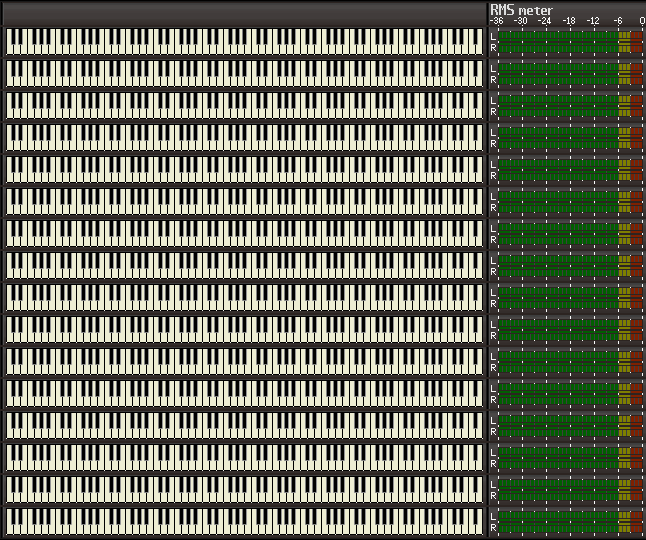
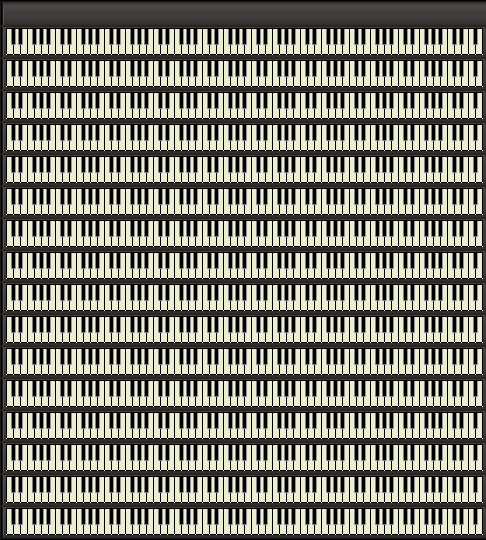
更新

diff --git a/EasySequencer/Monitor.cs b/EasySequencer/Monitor.cs
@@ -10,7 +10,8 @@ using SynthDll;
 
 namespace EasySequencer {
 	public partial class Monitor : Form {
-		Graphics mGraphMonitor;
+		Graphics mGraphKeyboard;
+		Graphics mGraphMeter;
 		Graphics mGraphUI;
 
 		Point mMouseDownPos;
@@ -113,28 +114,35 @@ namespace EasySequencer {
 		static readonly int OCT_WIDTH = (RECT_KEYS[0].Width + 1) * 7;
 
 		static readonly Size SIZE_RMS_CELL = new Size(4, 6);
-		static readonly Rectangle RECT_RMS_L = new Rectangle(499, 32, 144, 6);
-		static readonly Rectangle RECT_RMS_R = new Rectangle(499, 46, 144, 6);
-		static readonly Rectangle RECT_PEAK_L = new Rectangle(499, 39, 144, 2);
-		static readonly Rectangle RECT_PEAK_R = new Rectangle(499, 43, 144, 2);
+		static readonly Rectangle RECT_RMS_L = new Rectangle(13, 32, 144, 6);
+		static readonly Rectangle RECT_RMS_R = new Rectangle(13, 46, 144, 6);
+		static readonly Rectangle RECT_PEAK_L = new Rectangle(13, 39, 144, 2);
+		static readonly Rectangle RECT_PEAK_R = new Rectangle(13, 43, 144, 2);
 
 		public Monitor() {
 			InitializeComponent();
-
-			PicMonitor.Top = 0;
-			PicMonitor.Left = 0;
-			PicMonitor.Width = Resources.Keyboard.Width;
-			PicMonitor.Height = Resources.Keyboard.Height;
+			SuspendLayout();
+			PicKeyboard.Top = 0;
+			PicKeyboard.Left = 0;
+			PicKeyboard.Width = Resources.Keyboard.Width;
+			PicKeyboard.Height = Resources.Keyboard.Height;
+			PicMeter.Top = 0;
+			PicMeter.Left = PicKeyboard.Right;
+			PicMeter.Width = Resources.Meter.Width;
+			PicMeter.Height = Resources.Meter.Height;
 			PicUI.Top = 0;
-			PicUI.Left = PicMonitor.Right;
+			PicUI.Left = PicMeter.Right;
 			PicUI.Width = Resources.Monitor.Width;
 			PicUI.Height = Resources.Monitor.Height;
 			Width = PicUI.Right + 16;
 			Height = PicUI.Bottom + 39;
 
-			PicMonitor.Image = new Bitmap(PicMonitor.Width, PicMonitor.Height);
-			mGraphMonitor = Graphics.FromImage(PicMonitor.Image);
-			mGraphMonitor.SmoothingMode = System.Drawing.Drawing2D.SmoothingMode.None;
+			PicKeyboard.Image = new Bitmap(PicKeyboard.Width, PicKeyboard.Height);
+			mGraphKeyboard = Graphics.FromImage(PicKeyboard.Image);
+			mGraphKeyboard.SmoothingMode = System.Drawing.Drawing2D.SmoothingMode.None;
+			PicMeter.Image = new Bitmap(PicMeter.Width, PicMeter.Height);
+			mGraphMeter = Graphics.FromImage(PicMeter.Image);
+			mGraphMeter.SmoothingMode = System.Drawing.Drawing2D.SmoothingMode.None;
 			PicUI.Image = new Bitmap(PicUI.Width, PicUI.Height);
 			mGraphUI = Graphics.FromImage(PicUI.Image);
 			mGraphUI.SmoothingMode = System.Drawing.Drawing2D.SmoothingMode.None;
@@ -153,24 +161,97 @@ namespace EasySequencer {
 					g.Dispose();
 				}
 			}
+			ResumeLayout();
 		}
 
 		private void Monitor_Shown(object sender, EventArgs e) {
-			TimerMonitor.Enabled = true;
-			TimerMonitor.Interval = 33;
-			TimerMonitor.Start();
+			TimerKeyboard.Enabled = true;
+			TimerKeyboard.Interval = 16;
+			TimerKeyboard.Start();
+			TimerMeter.Enabled = true;
+			TimerMeter.Interval = 66;
+			TimerMeter.Start();
 			TimerUI.Enabled = true;
 			TimerUI.Interval = 66;
 			TimerUI.Start();
 		}
 
+		private void TimerKeyboard_Tick(object sender, EventArgs e) {
+			mGraphKeyboard.Clear(Color.Transparent);
+			for (int track = 0, chNum = 0; track < DISP_TRACKS; ++track, ++chNum) {
+				var param = Synth.GetChannel(chNum);
+				var track_y = TRACK_HEIGHT * track;
+				var transpose = (int)(param.pitch * param.bend_range / 8192.0 - 0.5);
+				for (var n = 0; n < 128; ++n) {
+					var k = n + transpose;
+					if (k < 12 || 127 < k) {
+						continue;
+					}
+					var key = RECT_KEYS[k % 12];
+					var kx = key.X + OCT_WIDTH * (k / 12 - 1);
+					var ky = key.Y + track_y;
+					var keyState = (E_KEY_STATE)Marshal.PtrToStructure<byte>(param.p_keyboard + n);
+					switch (keyState) {
+					case E_KEY_STATE.PRESS:
+						mGraphKeyboard.FillRectangle(Brushes.Red, kx, ky, key.Width, key.Height);
+						break;
+					case E_KEY_STATE.HOLD:
+						mGraphKeyboard.FillRectangle(Brushes.Blue, kx, ky, key.Width, key.Height);
+						break;
+					}
+				}
+			}
+			PicKeyboard.Image = PicKeyboard.Image;
+		}
+
+		private void TimerMeter_Tick(object sender, EventArgs e) {
+			mGraphMeter.Clear(Color.Transparent);
+			for (int track = 0, chNum = 0; track < DISP_TRACKS; ++track, ++chNum) {
+				var param = Synth.GetChannel(chNum);
+				var rmsL = Math.Sqrt(param.rms_l) * 2;
+				var rmsR = Math.Sqrt(param.rms_r) * 2;
+				var peakL = param.peak_l;
+				var peakR = param.peak_r;
+				rmsL = 20 * Math.Log10(Math.Max(rmsL, 0.0000001));
+				rmsR = 20 * Math.Log10(Math.Max(rmsR, 0.0000001));
+				peakL = 20 * Math.Log10(Math.Max(peakL, 0.0000001));
+				peakR = 20 * Math.Log10(Math.Max(peakR, 0.0000001));
+				var nrmsL = 1.0 - (rmsL - METER_MAX) / METER_MIN;
+				var nrmsR = 1.0 - (rmsR - METER_MAX) / METER_MIN;
+				var npeakL = 1.0 - (peakL - METER_MAX) / METER_MIN;
+				var npeakR = 1.0 - (peakR - METER_MAX) / METER_MIN;
+				var rmsLpx = (int)(nrmsL * RECT_RMS_L.Width + 1) / SIZE_RMS_CELL.Width * SIZE_RMS_CELL.Width;
+				var rmsRpx = (int)(nrmsR * RECT_RMS_R.Width + 1) / SIZE_RMS_CELL.Width * SIZE_RMS_CELL.Width;
+				var peakLpx = (int)(npeakL * RECT_PEAK_L.Width + 0.5);
+				var peakRpx = (int)(npeakR * RECT_PEAK_R.Width + 0.5);
+				rmsLpx = Math.Min(rmsLpx, RECT_RMS_L.Width - 1);
+				rmsRpx = Math.Min(rmsRpx, RECT_RMS_R.Width - 1);
+				peakLpx = Math.Min(peakLpx, RECT_PEAK_L.Width - 1);
+				peakRpx = Math.Min(peakRpx, RECT_PEAK_R.Width - 1);
+				var track_y = TRACK_HEIGHT * track;
+				mGraphMeter.DrawImageUnscaledAndClipped(Resources.meter_gauge, new Rectangle(
+					RECT_RMS_L.X, RECT_RMS_L.Y + track_y,
+					rmsLpx, SIZE_RMS_CELL.Height
+				));
+				mGraphMeter.DrawImageUnscaledAndClipped(Resources.meter_gauge, new Rectangle(
+					RECT_RMS_R.X, RECT_RMS_R.Y + track_y,
+					rmsRpx, SIZE_RMS_CELL.Height
+				));
+				mGraphMeter.DrawImageUnscaledAndClipped(Resources.meter_gauge_narrow, new Rectangle(
+					RECT_PEAK_L.X, RECT_PEAK_L.Y + track_y,
+					peakLpx, RECT_PEAK_L.Height
+				));
+				mGraphMeter.DrawImageUnscaledAndClipped(Resources.meter_gauge_narrow, new Rectangle(
+					RECT_PEAK_R.X, RECT_PEAK_R.Y + track_y,
+					peakRpx, RECT_PEAK_R.Height
+				));
+			}
+			PicMeter.Image = PicMeter.Image;
+		}
+
 		private void TimerUI_Tick(object sender, EventArgs e) {
 			DrawUI();
 			SendValue();
-		}
-
-		private void TimerMonitor_Tick(object sender, EventArgs e) {
-			DrawMonitor();
 		}
 
 		void PicMonitor_DoubleClick(object sender, EventArgs e) {
@@ -255,72 +336,6 @@ namespace EasySequencer {
 
 				mIsParamChg = true;
 			}
-		}
-
-		void DrawMonitor() {
-			mGraphMonitor.Clear(Color.Transparent);
-			for (int track = 0, chNum = 0; track < DISP_TRACKS; ++track, ++chNum) {
-				var param = Synth.GetChannel(chNum);
-				var track_y = TRACK_HEIGHT * track;
-				/*** Keyboard ***/
-				var transpose = (int)(param.pitch * param.bend_range / 8192.0 - 0.5);
-				for (var n = 0; n < 128; ++n) {
-					var k = n + transpose;
-					if (k < 12 || 127 < k) {
-						continue;
-					}
-					var key = RECT_KEYS[k % 12];
-					var kx = key.X + OCT_WIDTH * (k / 12 - 1);
-					var ky = key.Y + track_y;
-					var keyState = (E_KEY_STATE)Marshal.PtrToStructure<byte>(param.p_keyboard + n);
-					switch (keyState) {
-					case E_KEY_STATE.PRESS:
-						mGraphMonitor.FillRectangle(Brushes.Red, kx, ky, key.Width, key.Height);
-						break;
-					case E_KEY_STATE.HOLD:
-						mGraphMonitor.FillRectangle(Brushes.Blue, kx, ky, key.Width, key.Height);
-						break;
-					}
-				}
-				/*** Meter ***/
-				var rmsL = Math.Sqrt(param.rms_l) * 2;
-				var rmsR = Math.Sqrt(param.rms_r) * 2;
-				var peakL = param.peak_l;
-				var peakR = param.peak_r;
-				rmsL = 20 * Math.Log10(Math.Max(rmsL, 0.0000001));
-				rmsR = 20 * Math.Log10(Math.Max(rmsR, 0.0000001));
-				peakL = 20 * Math.Log10(Math.Max(peakL, 0.0000001));
-				peakR = 20 * Math.Log10(Math.Max(peakR, 0.0000001));
-				var nrmsL = 1.0 - (rmsL - METER_MAX) / METER_MIN;
-				var nrmsR = 1.0 - (rmsR - METER_MAX) / METER_MIN;
-				var npeakL = 1.0 - (peakL - METER_MAX) / METER_MIN;
-				var npeakR = 1.0 - (peakR - METER_MAX) / METER_MIN;
-				var rmsLpx = (int)(nrmsL * RECT_RMS_L.Width + 1) / SIZE_RMS_CELL.Width * SIZE_RMS_CELL.Width;
-				var rmsRpx = (int)(nrmsR * RECT_RMS_R.Width + 1) / SIZE_RMS_CELL.Width * SIZE_RMS_CELL.Width;
-				var peakLpx = (int)(npeakL * RECT_PEAK_L.Width + 0.5);
-				var peakRpx = (int)(npeakR * RECT_PEAK_R.Width + 0.5);
-				rmsLpx = Math.Min(rmsLpx, RECT_RMS_L.Width - 1);
-				rmsRpx = Math.Min(rmsRpx, RECT_RMS_R.Width - 1);
-				peakLpx = Math.Min(peakLpx, RECT_PEAK_L.Width - 1);
-				peakRpx = Math.Min(peakRpx, RECT_PEAK_R.Width - 1);
-				mGraphMonitor.DrawImageUnscaledAndClipped(Resources.Meter, new Rectangle(
-					RECT_RMS_L.X, RECT_RMS_L.Y + track_y,
-					rmsLpx, SIZE_RMS_CELL.Height
-				));
-				mGraphMonitor.DrawImageUnscaledAndClipped(Resources.Meter, new Rectangle(
-					RECT_RMS_R.X, RECT_RMS_R.Y + track_y,
-					rmsRpx, SIZE_RMS_CELL.Height
-				));
-				mGraphMonitor.DrawImageUnscaledAndClipped(Resources.Meter_narrow, new Rectangle(
-					RECT_PEAK_L.X, RECT_PEAK_L.Y + track_y,
-					peakLpx, RECT_PEAK_L.Height
-				));
-				mGraphMonitor.DrawImageUnscaledAndClipped(Resources.Meter_narrow, new Rectangle(
-					RECT_PEAK_R.X, RECT_PEAK_R.Y + track_y,
-					peakRpx, RECT_PEAK_R.Height
-				));
-			}
-			PicMonitor.Image = PicMonitor.Image;
 		}
 
 		void DrawUI() {

diff --git a/EasySequencer/Monitor.Designer.cs b/EasySequencer/Monitor.Designer.cs
@@ -28,10 +28,13 @@ namespace EasySequencer {
 		private void InitializeComponent() {
 			this.components = new System.ComponentModel.Container();
 			this.TimerUI = new System.Windows.Forms.Timer(this.components);
-			this.TimerMonitor = new System.Windows.Forms.Timer(this.components);
-			this.PicMonitor = new System.Windows.Forms.PictureBox();
+			this.TimerKeyboard = new System.Windows.Forms.Timer(this.components);
+			this.TimerMeter = new System.Windows.Forms.Timer(this.components);
+			this.PicMeter = new System.Windows.Forms.PictureBox();
+			this.PicKeyboard = new System.Windows.Forms.PictureBox();
 			this.PicUI = new System.Windows.Forms.PictureBox();
-			((System.ComponentModel.ISupportInitialize)(this.PicMonitor)).BeginInit();
+			((System.ComponentModel.ISupportInitialize)(this.PicMeter)).BeginInit();
+			((System.ComponentModel.ISupportInitialize)(this.PicKeyboard)).BeginInit();
 			((System.ComponentModel.ISupportInitialize)(this.PicUI)).BeginInit();
 			this.SuspendLayout();
 			// 
@@ -39,21 +42,37 @@ namespace EasySequencer {
 			// 
 			this.TimerUI.Tick += new System.EventHandler(this.TimerUI_Tick);
 			// 
-			// TimerMonitor
+			// TimerKeyboard
 			// 
-			this.TimerMonitor.Tick += new System.EventHandler(this.TimerMonitor_Tick);
+			this.TimerKeyboard.Tick += new System.EventHandler(this.TimerKeyboard_Tick);
 			// 
-			// PicMonitor
+			// TimerMeter
 			// 
-			this.PicMonitor.BackColor = System.Drawing.Color.Transparent;
-			this.PicMonitor.BackgroundImage = global::EasySequencer.Properties.Resources.Keyboard;
-			this.PicMonitor.BackgroundImageLayout = System.Windows.Forms.ImageLayout.None;
-			this.PicMonitor.InitialImage = null;
-			this.PicMonitor.Location = new System.Drawing.Point(12, 12);
-			this.PicMonitor.Name = "picKeyboard";
-			this.PicMonitor.Size = new System.Drawing.Size(489, 541);
-			this.PicMonitor.TabIndex = 2;
-			this.PicMonitor.TabStop = false;
+			this.TimerMeter.Tick += new System.EventHandler(this.TimerMeter_Tick);
+			// 
+			// PicMeter
+			// 
+			this.PicMeter.BackColor = System.Drawing.Color.Transparent;
+			this.PicMeter.BackgroundImage = global::EasySequencer.Properties.Resources.Meter;
+			this.PicMeter.BackgroundImageLayout = System.Windows.Forms.ImageLayout.None;
+			this.PicMeter.InitialImage = null;
+			this.PicMeter.Location = new System.Drawing.Point(507, 12);
+			this.PicMeter.Name = "PicMeter";
+			this.PicMeter.Size = new System.Drawing.Size(173, 541);
+			this.PicMeter.TabIndex = 3;
+			this.PicMeter.TabStop = false;
+			// 
+			// PicKeyboard
+			// 
+			this.PicKeyboard.BackColor = System.Drawing.Color.Transparent;
+			this.PicKeyboard.BackgroundImage = global::EasySequencer.Properties.Resources.Keyboard;
+			this.PicKeyboard.BackgroundImageLayout = System.Windows.Forms.ImageLayout.None;
+			this.PicKeyboard.InitialImage = null;
+			this.PicKeyboard.Location = new System.Drawing.Point(12, 12);
+			this.PicKeyboard.Name = "PicMonitor";
+			this.PicKeyboard.Size = new System.Drawing.Size(489, 541);
+			this.PicKeyboard.TabIndex = 2;
+			this.PicKeyboard.TabStop = false;
 			// 
 			// PicUI
 			// 
@@ -61,9 +80,9 @@ namespace EasySequencer {
 			this.PicUI.BackgroundImage = global::EasySequencer.Properties.Resources.Monitor;
 			this.PicUI.BackgroundImageLayout = System.Windows.Forms.ImageLayout.None;
 			this.PicUI.InitialImage = null;
-			this.PicUI.Location = new System.Drawing.Point(507, 12);
-			this.PicUI.Name = "picMonitor";
-			this.PicUI.Size = new System.Drawing.Size(740, 541);
+			this.PicUI.Location = new System.Drawing.Point(686, 12);
+			this.PicUI.Name = "PicUI";
+			this.PicUI.Size = new System.Drawing.Size(581, 541);
 			this.PicUI.TabIndex = 1;
 			this.PicUI.TabStop = false;
 			this.PicUI.DoubleClick += new System.EventHandler(this.PicMonitor_DoubleClick);
@@ -76,7 +95,8 @@ namespace EasySequencer {
 			this.AutoScaleDimensions = new System.Drawing.SizeF(6F, 12F);
 			this.AutoScaleMode = System.Windows.Forms.AutoScaleMode.Font;
 			this.ClientSize = new System.Drawing.Size(1237, 551);
-			this.Controls.Add(this.PicMonitor);
+			this.Controls.Add(this.PicMeter);
+			this.Controls.Add(this.PicKeyboard);
 			this.Controls.Add(this.PicUI);
 			this.DoubleBuffered = true;
 			this.FormBorderStyle = System.Windows.Forms.FormBorderStyle.FixedSingle;
@@ -84,7 +104,8 @@ namespace EasySequencer {
 			this.Name = "Monitor";
 			this.Text = "Monitor";
 			this.Shown += new System.EventHandler(this.Monitor_Shown);
-			((System.ComponentModel.ISupportInitialize)(this.PicMonitor)).EndInit();
+			((System.ComponentModel.ISupportInitialize)(this.PicMeter)).EndInit();
+			((System.ComponentModel.ISupportInitialize)(this.PicKeyboard)).EndInit();
 			((System.ComponentModel.ISupportInitialize)(this.PicUI)).EndInit();
 			this.ResumeLayout(false);
 
@@ -94,7 +115,9 @@ namespace EasySequencer {
 
 		private System.Windows.Forms.PictureBox PicUI;
 		private Timer TimerUI;
-		private Timer TimerMonitor;
-		private PictureBox PicMonitor;
+		private Timer TimerKeyboard;
+		private Timer TimerMeter;
+		private PictureBox PicKeyboard;
+		private PictureBox PicMeter;
 	}
 }

diff --git a/EasySequencer/Properties/Resources.Designer.cs b/EasySequencer/Properties/Resources.Designer.cs
@@ -343,9 +343,19 @@ namespace EasySequencer.Properties {
         /// <summary>
         ///   型 System.Drawing.Bitmap のローカライズされたリソースを検索します。
         /// </summary>
-        internal static System.Drawing.Bitmap Meter_narrow {
+        internal static System.Drawing.Bitmap meter_gauge {
             get {
-                object obj = ResourceManager.GetObject("Meter_narrow", resourceCulture);
+                object obj = ResourceManager.GetObject("meter_gauge", resourceCulture);
+                return ((System.Drawing.Bitmap)(obj));
+            }
+        }
+        
+        /// <summary>
+        ///   型 System.Drawing.Bitmap のローカライズされたリソースを検索します。
+        /// </summary>
+        internal static System.Drawing.Bitmap meter_gauge_narrow {
+            get {
+                object obj = ResourceManager.GetObject("meter_gauge_narrow", resourceCulture);
                 return ((System.Drawing.Bitmap)(obj));
             }
         }
